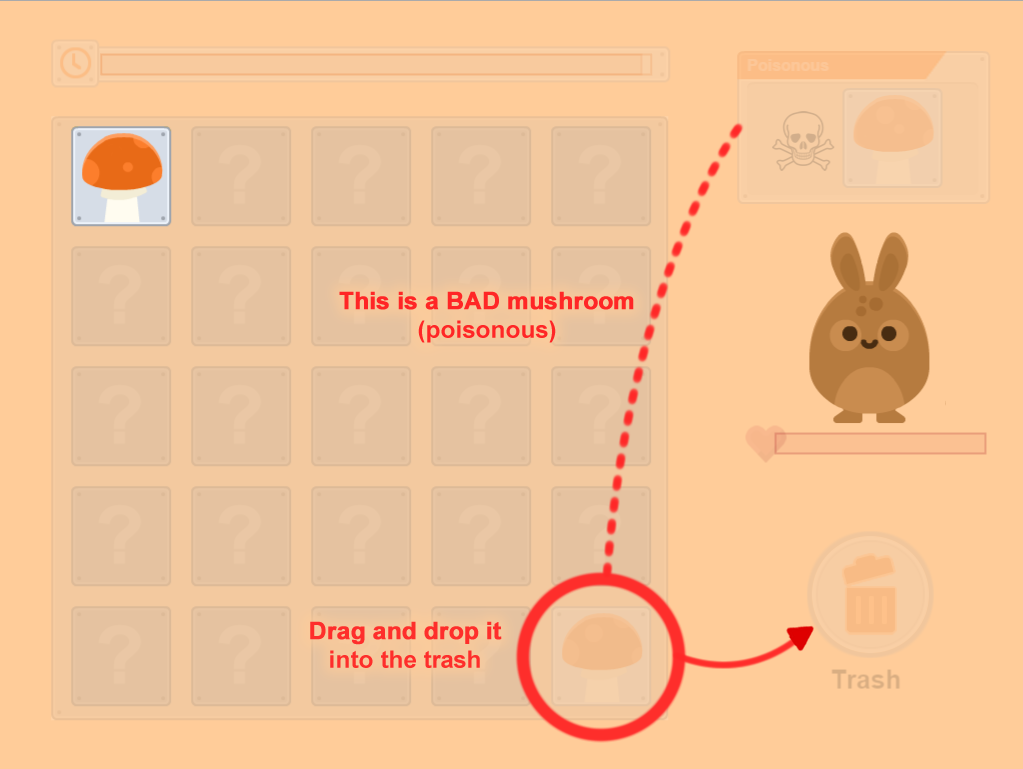
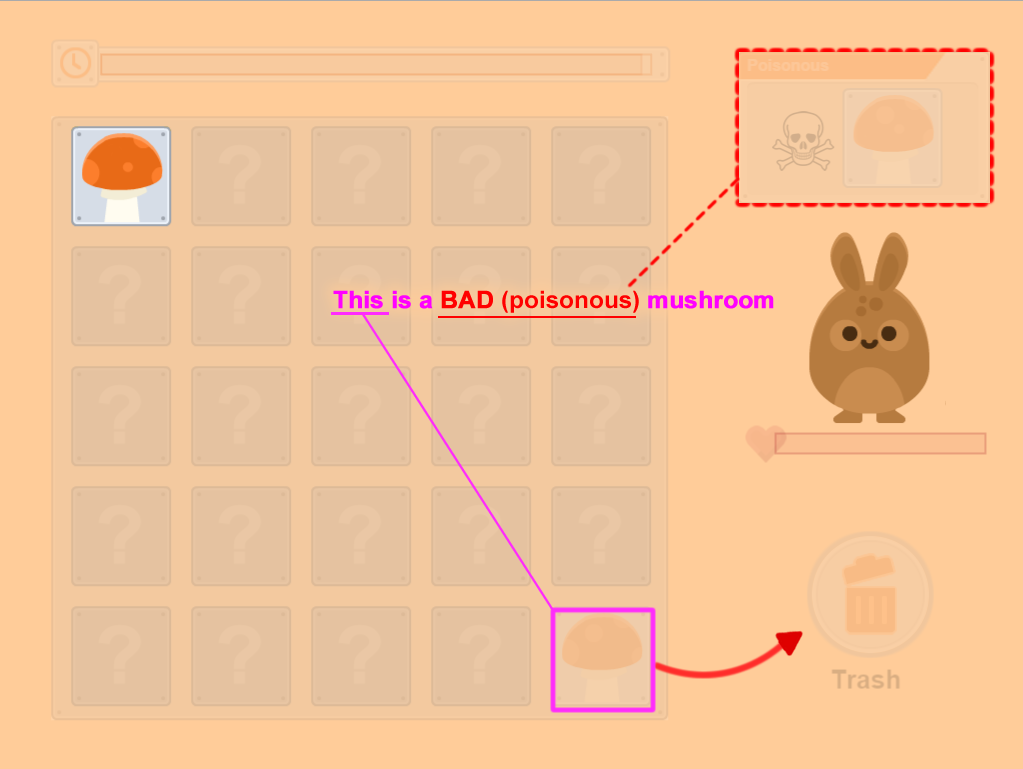
Improving the tutorial

diff --git a/card-flipper/Tutorial.js b/card-flipper/Tutorial.js
@@ -12,9 +12,7 @@ var Tutorial = function () {
     var mInfoGood;
     var mInfoBad;
     var mInfoTime;
-    var mTextGood;
     var mTextDrag;
-    var mTextBad;
     var mTextTrash;
 
     // Constructor
@@ -38,29 +36,22 @@ Tutorial.STEP_EXPLAIN_TIME = 5;
 Tutorial.prototype.init = function() {
     var aText;
 
-    this.mInfoGood = new Phaser.Sprite(Game, 35, 5, 'tutorial-good');
-    this.mInfoBad = new Phaser.Sprite(Game, 510, 120, 'tutorial-bad');
+    this.mInfoGood = new Phaser.Sprite(Game, 71, 30, 'tutorial-good');
+    this.mInfoBad = new Phaser.Sprite(Game, 318, 45, 'tutorial-bad');
     this.mInfoTime = new Phaser.Sprite(Game, 45, 85, 'tutorial-time');
 
-    this.mTextGood = new Phaser.Text(Game, Game.world.centerX - 220, 155, 'You must feed the monster with mushrooms. Choose the ones different from the poisonous indication.', {fontSize: 26, fill: '#2DB200', align: 'center', wordWrap: true, wordWrapWidth: 450 });
-    this.mTextDrag = new Phaser.Text(Game, 25, Game.world.centerY - 95, 'Drag this\nsafe mushroom into the monster.', {fontSize: 30, fill: '#2DB200', align: 'left', wordWrap: true, wordWrapWidth: 300 });
-
-    this.mTextBad = new Phaser.Text(Game, Game.world.centerX - 250, Game.world.centerY - 100, 'This mushroom is identical to the poisonous indication!', {fontSize: 26, fill: '#FE2D2B', align: 'center', wordWrap: true, wordWrapWidth: 300 });
-    this.mTextTrash = new Phaser.Text(Game, Game.world.centerX - 360, Game.world.centerY + 230, 'Drag this bad mushroom into the trash.', {fontSize: 30, fill: '#FE2D2B', align: 'center', wordWrap: true, wordWrapWidth: 400 });
+    this.mTextDrag = new Phaser.Text(Game, 220, Game.world.centerY, 'Drag and drop the \nsafe non-poisonous mushroom into the monster.', {fontSize: 30, fill: '#2DB200', align: 'center', wordWrap: true, wordWrapWidth: 450 });
+    this.mTextTrash = new Phaser.Text(Game, Game.world.centerX - 360, Game.world.centerY + 230, 'Drag the bad (poisonous) mushroom into the trash.', {fontSize: 30, fill: '#FE2D2B', align: 'center', wordWrap: true, wordWrapWidth: 400 });
 
     this.mInfoGood.visible = false;
-    this.mTextGood.visible = false;
     this.mTextDrag.visible = false;
     this.mInfoBad.visible = false;
-    this.mTextBad.visible = false;
     this.mTextTrash.visible = false;
     this.mInfoTime.visible = false;
 
     this.add(this.mInfoGood);
-    this.add(this.mTextGood);
     this.add(this.mTextDrag);
     this.add(this.mInfoBad);
-    this.add(this.mTextBad);
     this.add(this.mTextTrash);
     this.add(this.mInfoTime);
 };
@@ -120,7 +111,6 @@ Tutorial.prototype.update = function() {
                 ], Game.world.children);
 
                 this.mInfoGood.visible = true; this.mInfoGood.alpha = 1;
-                this.mTextGood.visible = true; this.mTextGood.alpha = 1;
                 this.mTextDrag.visible = true; this.mTextDrag.alpha = 1;
 
                 Game.add.tween(this.mTextDrag).to({alpha: 0.3}, 800, Phaser.Easing.Linear.None, true, 0, -1, true).start();
@@ -133,7 +123,6 @@ Tutorial.prototype.update = function() {
                 // The player got it! :D
                 mGoodCard.alpha = 0.2;
                 this.mInfoGood.destroy();
-                this.mTextGood.destroy();
                 this.mTextDrag.destroy();
                 this.stepTo(Tutorial.STEP_DRAG_BAD_CARD, 1000);
             }
@@ -150,7 +139,6 @@ Tutorial.prototype.update = function() {
                 ], Game.world.children);
 
                 this.mInfoBad.visible = true; this.mInfoBad.alpha = 1;
-                this.mTextBad.visible = true; this.mTextBad.alpha = 1;
                 this.mTextTrash.visible = true; this.mTextTrash.alpha = 1;
 
                 Game.add.tween(this.mTextTrash).to({alpha: 0.3}, 800, Phaser.Easing.Linear.None, true, 0, -1, true).start();
@@ -160,7 +148,6 @@ Tutorial.prototype.update = function() {
             // but this time with the bad card.
             if(mBadCard.isFlippedDown()) {
                 this.mInfoBad.destroy();
-                this.mTextBad.destroy();
                 this.mTextTrash.destroy();
                 mBadCard.alpha = 0.2;
                 this.stepTo(Tutorial.STEP_EXPLAIN_TIME, 2000);

diff --git a/card-flipper/LoadState.js b/card-flipper/LoadState.js
@@ -19,8 +19,8 @@ var LoadState = function() {
 		// Assets made by myself
 		Game.load.spritesheet('right-wrong', 'assets/right_wrong.png', 145, 207); // By Fernando Bevilacqua, public domain
 		Game.load.image('pixel', 'assets/pixel.png'); // By Fernando Bevilacqua, public domain
-		Game.load.image('tutorial-good', 'assets/tutorial_good.png?2'); // By Fernando Bevilacqua, public domain
-		Game.load.image('tutorial-bad', 'assets/tutorial_bad.png?2'); // By Fernando Bevilacqua, public domain
+		Game.load.image('tutorial-good', 'assets/tutorial_good.png?7'); // By Fernando Bevilacqua, public domain
+		Game.load.image('tutorial-bad', 'assets/tutorial_bad.png?7'); // By Fernando Bevilacqua, public domain
 		Game.load.image('tutorial-time', 'assets/tutorial_time.png'); // By Fernando Bevilacqua, public domain
 
 		// Assets from external authors
